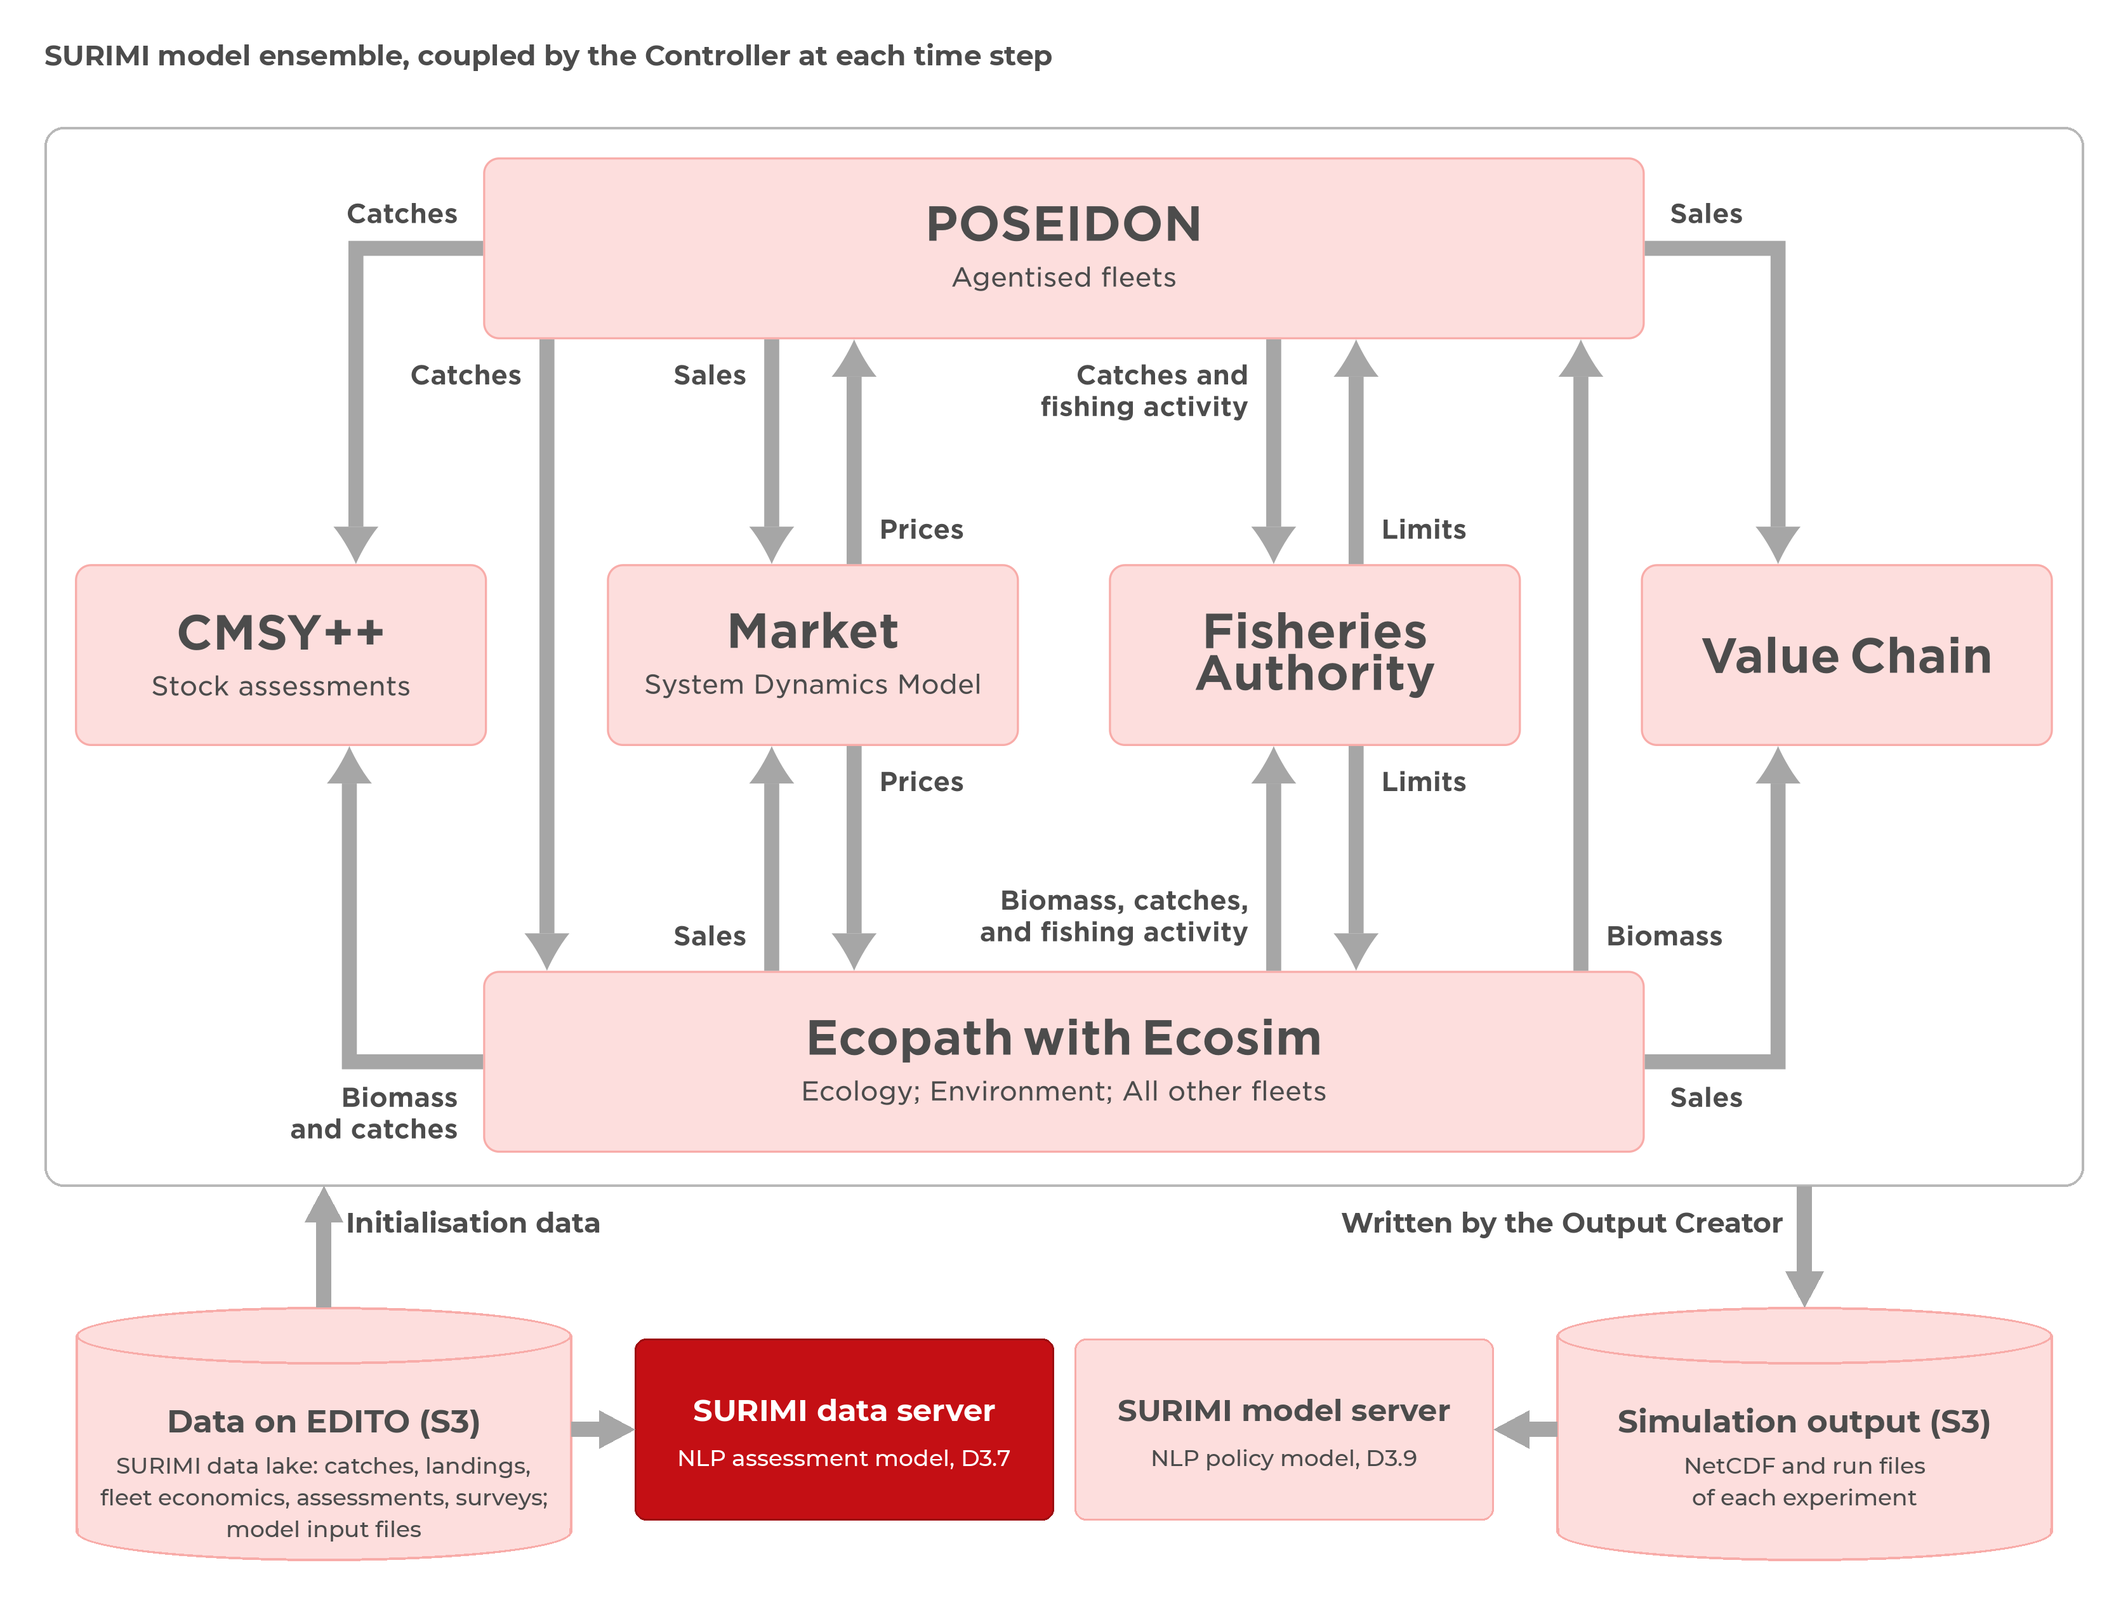
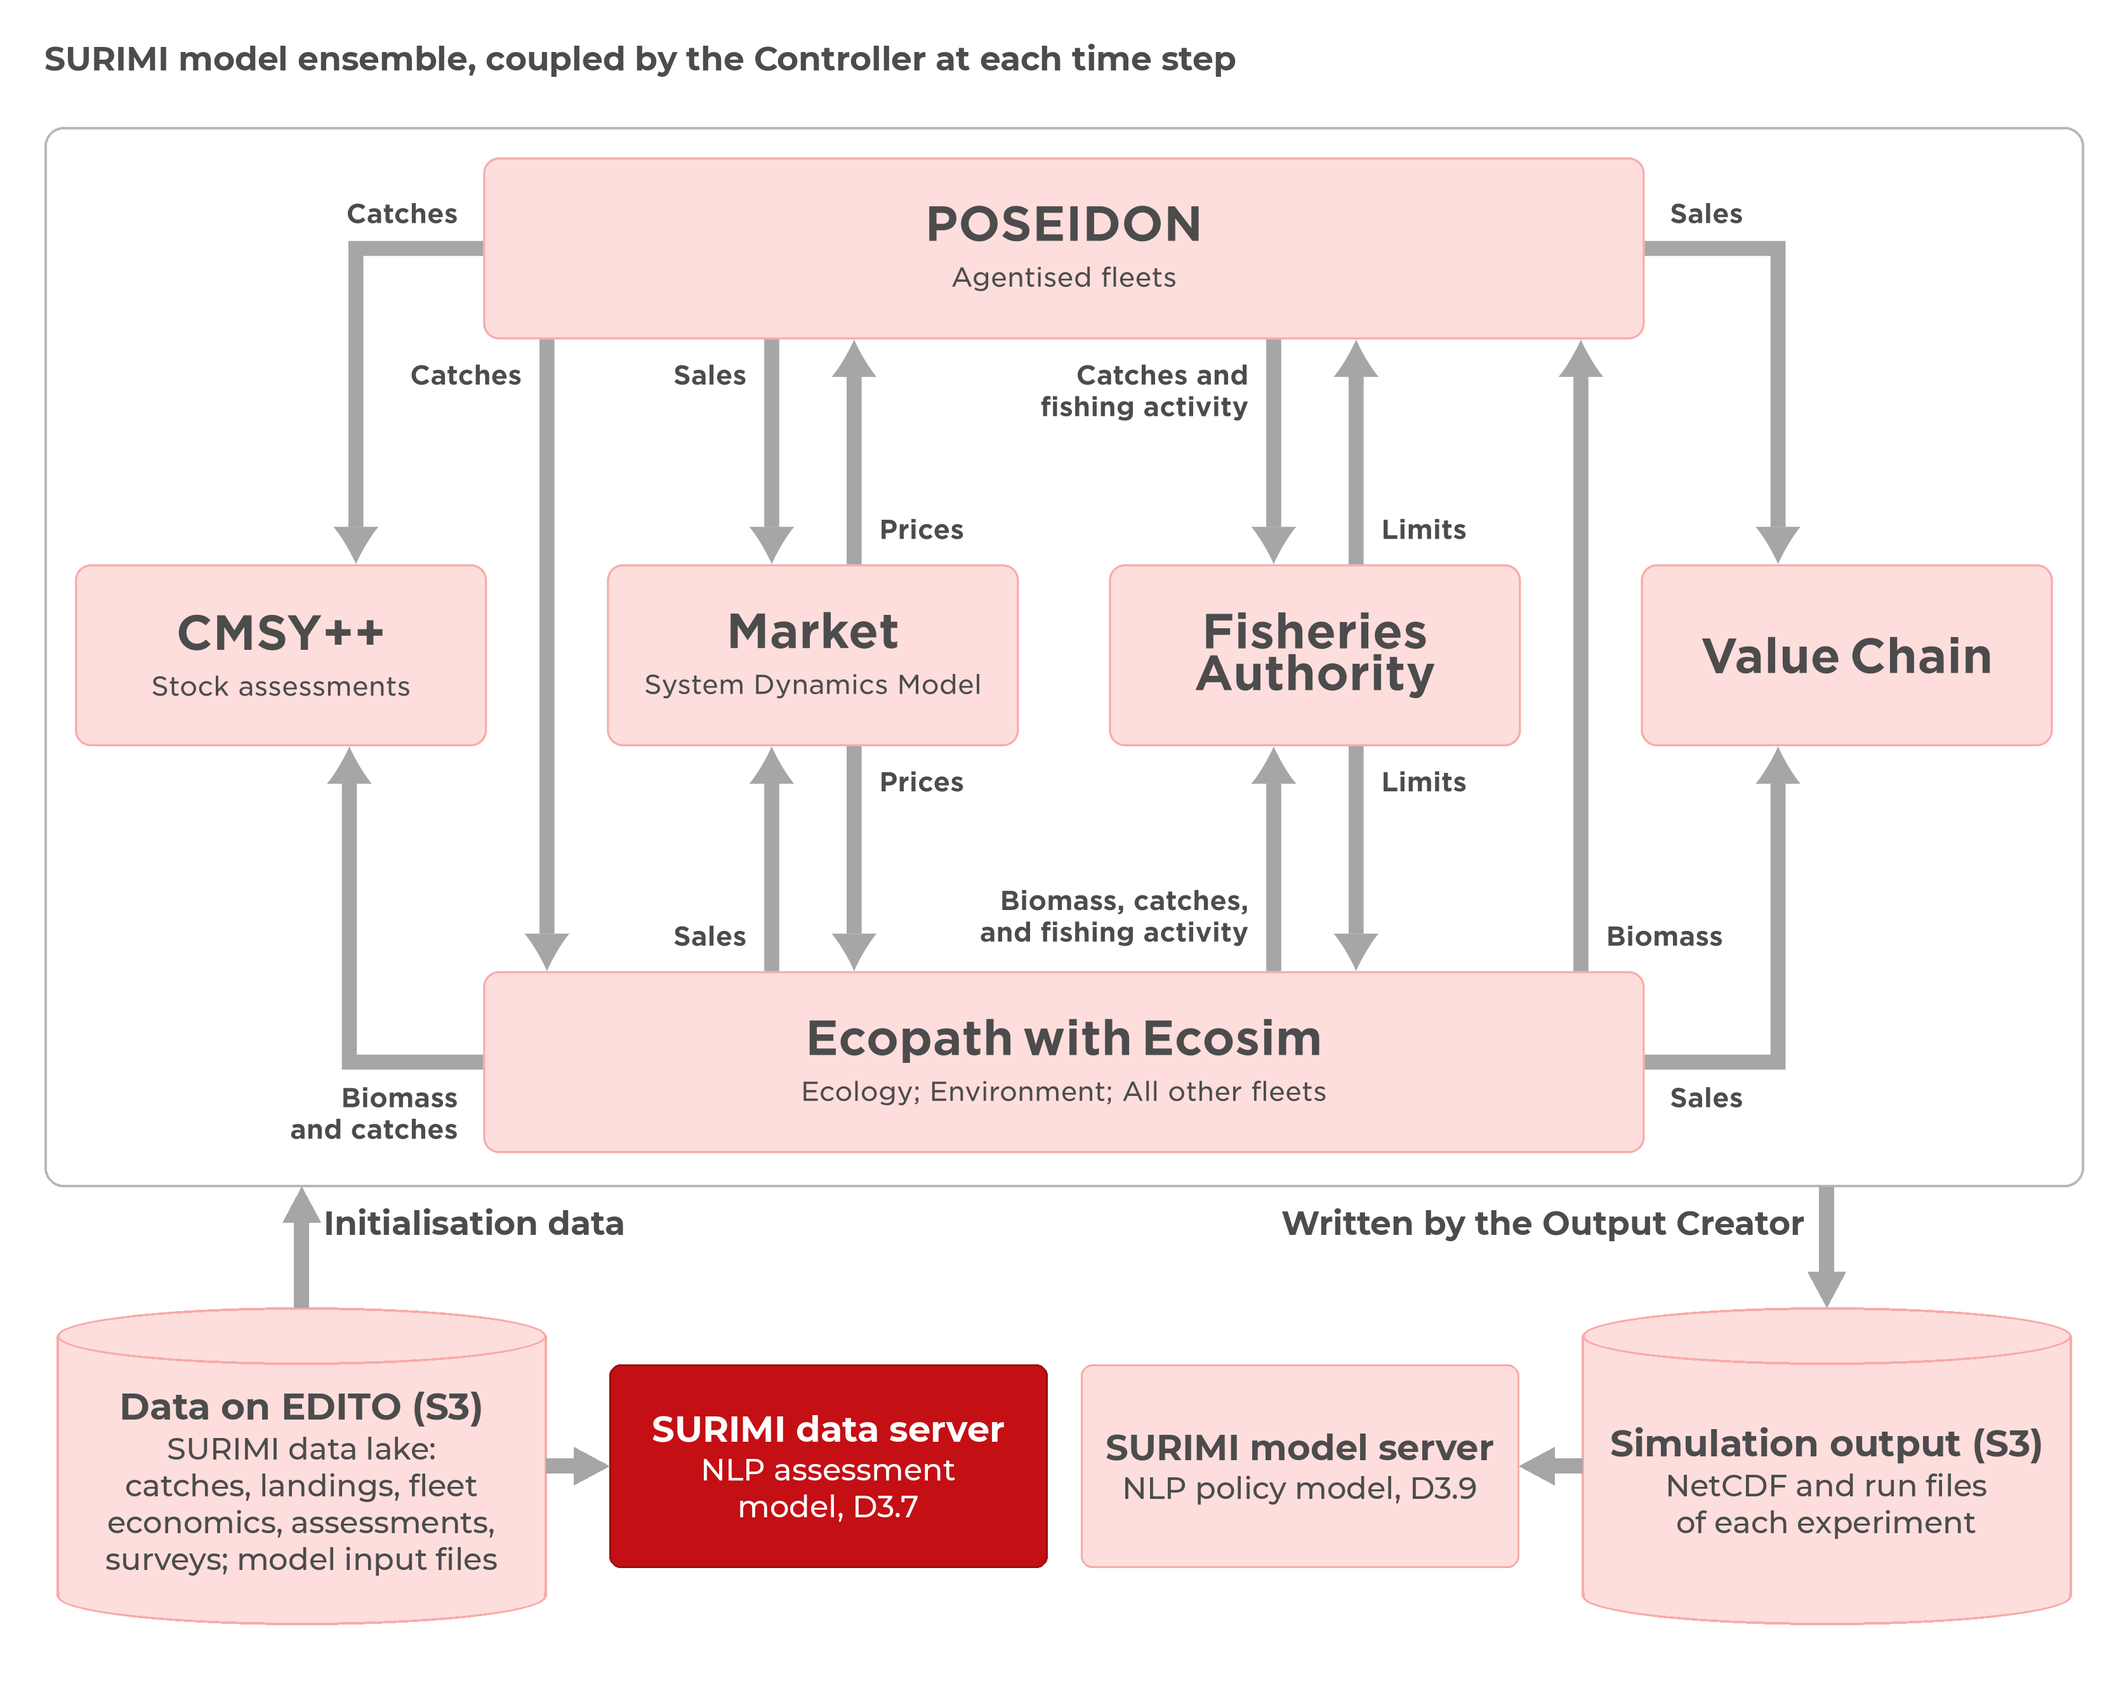
D3.7, D3.9: Önder's review applied
Version summary names the submission date; repository links clickable; D3.9
"through a chat interface" and a purpose sentence that matches what the server
does; sequence diagrams and figures redrawn so their text reads at page size.

diff --git a/deliverables/D3.9 - NLP policy model/D3.9 - NLP policy model.md b/deliverables/D3.9 - NLP policy model/D3.9 - NLP policy model.md
@@ -18,7 +18,7 @@
 
 | Version   | Summary of Changes |
 | --------- | ------------------ |
-| Version 0 | Initial version. |
+| Version 0 | Initial version, submitted on 23 October 2026. |
 
 ## Summary
 
@@ -26,13 +26,13 @@
 | ------------------- | --------- |
 | Programming language     | Python |
 | Nr of Kubernetes pods       | 1 |
-| GitHub repo       | https://github.com/SURIMI-Project/SURIMI-model-mcp |
+| GitHub repo       | <https://github.com/SURIMI-Project/SURIMI-model-mcp> |
 | Architecture       | [model_mcp_architecture.md](https://github.com/SURIMI-Project/SURIMI-model-mcp/blob/master/model_mcp_architecture.md) |
 | Tools, in plain words       | [docs/tools.md](https://github.com/SURIMI-Project/SURIMI-model-mcp/blob/master/docs/tools.md); behaviour in detail in [docs/behaviour.md](https://github.com/SURIMI-Project/SURIMI-model-mcp/blob/master/docs/behaviour.md) |
 | Chat and language model       | [SURIMI-vllm-ui](https://github.com/SURIMI-Project/SURIMI-vllm-ui) and [SURIMI-vllm](https://github.com/SURIMI-Project/SURIMI-vllm), shared with D3.7 |
 | Licence       | EUPL-1.2 |
 
-SURIMI-model-mcp is the natural language processing (NLP) policy model of the SURIMI toolbox. Its job is to help people make sense of what the SURIMI simulations found. A policy officer can ask, for instance, whether a stock is overfished in the latest experiment, or what a run holds for a given stock. They get a plain answer that points back to the run it came from.
+SURIMI-model-mcp is the natural language processing (NLP) policy model of the SURIMI toolbox. Its job is to help people make sense of what the SURIMI simulations found. A policy officer can ask through a chat interface, for instance, whether a stock is overfished in the latest experiment, or what a run holds for a given stock. They get a plain answer that points back to the run it came from.
 
 Behind the chat, a large language model (LLM) works out what the user is asking and chooses the server's tools, which the chat then runs. The tools read the numbers, not the LLM. The runs come from the CMSY++, market, Controller, Fisheries Authority and Output Creator models, which store their results on the European Digital Twin of the Ocean (EDITO). Users reach it through the SURIMI chat (SURIMI-vllm-ui), with the same language model as D3.7: Muse-Glimmer-30B, an open-weight LLM from Red Hat. What it can answer is limited by what each run contains and by the server's access to EDITO storage, which lapses a day after launch (§5.4).
 
@@ -45,7 +45,7 @@ SURIMI-model-mcp does not run simulations itself. A SURIMI experiment takes one 
 
 ## 1. Model purpose
 
-SURIMI-model-mcp is the NLP policy model of SURIMI. Its purpose is to explain what the simulations say about a policy choice, so that people who do not run the models themselves can see why one policy performs better than another. It is a server that holds the tools to find, read and explain the simulation results, and it is the main deliverable of D3.9. Most users do not talk to the server directly. They type their question in the chat (SURIMI-vllm-ui), and an LLM served by SURIMI-vllm reads the question and chooses the server's tools. The chat runs the tools and passes the results back, and the LLM writes the answer. In SURIMI, a policy choice is a management strategy whose effect the simulations compare. At present this is a harvest control rule that sets a total allowable catch for each species that has a rule, at the start of each regulatory year. Two models make up the policy layer of the ensemble. The management strategy evaluation (MSE) policy model (D3.8) sets these catch limits from harvest control rules while the simulation runs. This one works outside the simulation and explains its results afterwards.
+SURIMI-model-mcp is the NLP policy model of SURIMI. Its purpose is to help people who do not run the models themselves find and read the results of the simulations of a policy choice, such as the status of each stock in a run. It is a server that holds the tools to find, read and explain the simulation results, and it is the main deliverable of D3.9. Most users do not talk to the server directly. They type their question in the chat (SURIMI-vllm-ui), and an LLM served by SURIMI-vllm reads the question and chooses the server's tools. The chat runs the tools and passes the results back, and the LLM writes the answer. In SURIMI, a policy choice is a management strategy whose effect the simulations compare. At present this is a harvest control rule that sets a total allowable catch for each species that has a rule, at the start of each regulatory year. Two models make up the policy layer of the ensemble. The management strategy evaluation (MSE) policy model (D3.8) sets these catch limits from harvest control rules while the simulation runs. This one works outside the simulation and explains its results afterwards.
 
 Take the question of whether a stock is overfished in the latest experiment. The LLM first lists the runs and opens the experiment's output file. It then reads the stock's status with `model_run_stock_status`, which gives two ratios: the stock's biomass relative to the biomass at maximum sustainable yield (B/Bmsy), and its fishing pressure relative to the level at maximum sustainable yield (F/Fmsy). The answer names the run, the stock and the file, and points out that this file carries no uncertainty bounds. The server never changes a stored file and does not read data supplied by the user.
 
@@ -61,46 +61,25 @@ Most policy questions start with finding the right run. The LLM looks up which r
  <em>Figure 2. How a policy question is answered: discovery of the runs, one run opened and its stock result read, with bounds when the result comes from a CMSY++ table.</em>
 
 ```mermaid
-%%{init: {'theme': 'base', 'themeVariables': {'primaryColor': '#FCDEDC', 'primaryBorderColor': '#F8ACA9', 'edgeLabelBackground': '#FFFFFF'}}}%%
+%%{init: {'theme': 'base', 'themeVariables': {'primaryColor': '#FCDEDC', 'primaryBorderColor': '#F8ACA9', 'edgeLabelBackground': '#FFFFFF', 'fontSize': '20px'}, 'sequence': {'mirrorActors': false, 'actorFontSize': 20, 'messageFontSize': 20, 'noteFontSize': 20, 'actorMargin': 30, 'width': 190, 'messageMargin': 38, 'boxMargin': 8}}}%%
 sequenceDiagram
     participant User as User
-    participant UI as Chat UI and tool loop (SURIMI-vllm-ui)
-    participant LLM as Language model (SURIMI-vllm)
-    participant MODEL as NLP policy model (SURIMI-model-mcp)
-    participant S3 as EDITO MinIO (project-surimi)
+    participant UI as Chat UI and tool loop<br/>(SURIMI-vllm-ui)
+    participant LLM as Language model<br/>(SURIMI-vllm)
+    participant MODEL as NLP policy model<br/>(SURIMI-model-mcp)
+    participant S3 as EDITO MinIO<br/>(project-surimi)
 
     User ->> UI: policy question
-    UI ->> LLM: question + tool descriptions
-    LLM -->> UI: tool call model_list_simulations(model?)
-    UI ->> MODEL: the same call, over MCP
-    MODEL ->> S3: list the bucket once and group the keys into runs (cmsy, market, controller, ...), cached for 5 minutes
-    S3 -->> MODEL: object listing (run files and metadata read from the local copy)
-    MODEL -->> UI: runs with summary and stock
-    UI ->> LLM: tool result
-    LLM -->> UI: tool call model_describe_simulation(simulation_id)
-    UI ->> MODEL: the same call
-    MODEL -->> UI: the run's files + parsed metadata
-    UI ->> LLM: tool result
-    LLM -->> UI: tool call model_get_stock_status / model_get_stock_trajectory(simulation_id, stock, phase)
-    UI ->> MODEL: the same call
-    MODEL ->> S3: CMSY++ result table
-    S3 -->> MODEL: rows
-    MODEL -->> UI: B/Bmsy, F/Fmsy (with reference points and bounds when read from a CMSY++ table)
-    UI ->> LLM: tool result
-    opt gridded driver
-        LLM -->> UI: tool call model_list_regions / model_time_series / model_trend
-        UI ->> MODEL: the same call
-        MODEL ->> S3: NetCDF + region mask
-        S3 -->> MODEL: slice
-        MODEL -->> UI: pre-aggregated series
-        UI ->> LLM: tool result
+    loop until the model answers (at most 11 rounds)
+        UI ->> LLM: conversation +<br/>tool descriptions
+        LLM -->> UI: tool call, e.g. model_list_simulations /<br/>model_describe_simulation /<br/>model_run_stock_status
+        UI ->> MODEL: the same call,<br/>over MCP
+        MODEL ->> S3: run files, NetCDF and<br/>region masks (local copy)
+        S3 -->> MODEL: files
+        MODEL -->> UI: runs with summary and stock,<br/>a run's files, B/Bmsy and F/Fmsy,<br/>or a pre-aggregated series
     end
-    LLM -->> UI: text answer naming run, stock, phase and source file
-    UI -->> User: answer (and a chart when the user asks for one or the result is a gridded series)
-    opt the user checks a gridded figure
-        User ->> UI: "SURIMI Show the query"
-        UI -->> User: the signed record checked as unchanged, with no query to show, as the server reads files
-    end
+    LLM -->> UI: answer naming run,<br/>stock, phase and source file
+    UI -->> User: answer (and a chart when the user<br/>asks for one or the result is<br/>a gridded series)
 ```
 
 ### 2.1 The tools

diff --git a/deliverables/D3.7 - NLP assessment model/D3.7 - NLP assessment model.md b/deliverables/D3.7 - NLP assessment model/D3.7 - NLP assessment model.md
@@ -18,7 +18,7 @@
 
 | Version   | Summary of Changes |
 | --------- | ------------------ |
-| Version 0 | Initial version. |
+| Version 0 | Initial version, submitted on 23 October 2026. |
 
 ## Summary
 
@@ -26,7 +26,7 @@
 | ------------------- | --------- |
 | Programming language     | Python |
 | Nr of Kubernetes pods       | 2 (the server and its PostgreSQL database) |
-| GitHub repo       | https://github.com/SURIMI-Project/SURIMI-data-mcp |
+| GitHub repo       | <https://github.com/SURIMI-Project/SURIMI-data-mcp> |
 | Architecture       | [data_mcp_architecture.md](https://github.com/SURIMI-Project/SURIMI-data-mcp/blob/master/data_mcp_architecture.md) |
 | Tools, in plain words       | [docs/tools.md](https://github.com/SURIMI-Project/SURIMI-data-mcp/blob/master/docs/tools.md) |
 | Chat and language model       | [SURIMI-vllm-ui](https://github.com/SURIMI-Project/SURIMI-vllm-ui) (chat), [SURIMI-vllm](https://github.com/SURIMI-Project/SURIMI-vllm) (language model serving) |
@@ -64,27 +64,27 @@ As explained above, the NLP assessment model is used through three closely linke
 The sequence diagram below shows how a question is answered. The chat sends the question to the language model along with descriptions of the server's tools. The model then either answers directly or asks for a tool call, which the chat runs on the server before passing the result back to the model. This loop continues until the model has its answer, for at most 11 rounds of tool calls by default.
 
 ```mermaid
-%%{init: {'theme': 'base', 'themeVariables': {'primaryColor': '#FCDEDC', 'primaryBorderColor': '#F8ACA9', 'edgeLabelBackground': '#FFFFFF'}}}%%
+%%{init: {'theme': 'base', 'themeVariables': {'primaryColor': '#FCDEDC', 'primaryBorderColor': '#F8ACA9', 'edgeLabelBackground': '#FFFFFF', 'fontSize': '20px'}, 'sequence': {'mirrorActors': false, 'actorFontSize': 20, 'messageFontSize': 20, 'noteFontSize': 20, 'actorMargin': 30, 'width': 190, 'messageMargin': 38, 'boxMargin': 8}}}%%
 sequenceDiagram
     participant User as User
-    participant UI as Chat UI and tool loop (SURIMI-vllm-ui)
-    participant LLM as Language model (SURIMI-vllm)
-    participant DATA as NLP assessment model (SURIMI-data-mcp)
-    participant STORE as PostgreSQL / DuckDB cube (copy of the data lake)
+    participant UI as Chat UI and tool loop<br/>(SURIMI-vllm-ui)
+    participant LLM as Language model<br/>(SURIMI-vllm)
+    participant DATA as NLP assessment model<br/>(SURIMI-data-mcp)
+    participant STORE as PostgreSQL / DuckDB cube<br/>(copy of the data lake)
 
-    User ->> UI: question in natural language
+    User ->> UI: question in<br/>natural language
     loop until the model answers (at most 11 rounds)
-        UI ->> LLM: conversation + tool descriptions
-        LLM -->> UI: tool call, e.g. list_datasets / aggregate / explain_indicator
-        UI ->> DATA: the same call, over MCP
+        UI ->> LLM: conversation +<br/>tool descriptions
+        LLM -->> UI: tool call, e.g. list_datasets /<br/>aggregate / explain_indicator
+        UI ->> DATA: the same call,<br/>over MCP
         opt query tools
-            DATA ->> STORE: SQL over the data lake
+            DATA ->> STORE: SQL over<br/>the data lake
             STORE -->> DATA: rows
         end
-        DATA -->> UI: rows or finding + how it was calculated (analysis tools also return a chart spec)
+        DATA -->> UI: rows or finding + how it was calculated<br/>(analysis tools also return a chart spec)
     end
     LLM -->> UI: answer with source
-    UI -->> User: answer, chart and how each figure was calculated
+    UI -->> User: answer, chart and how<br/>each number was calculated
 ```
 
 ### 2.1 The tools
